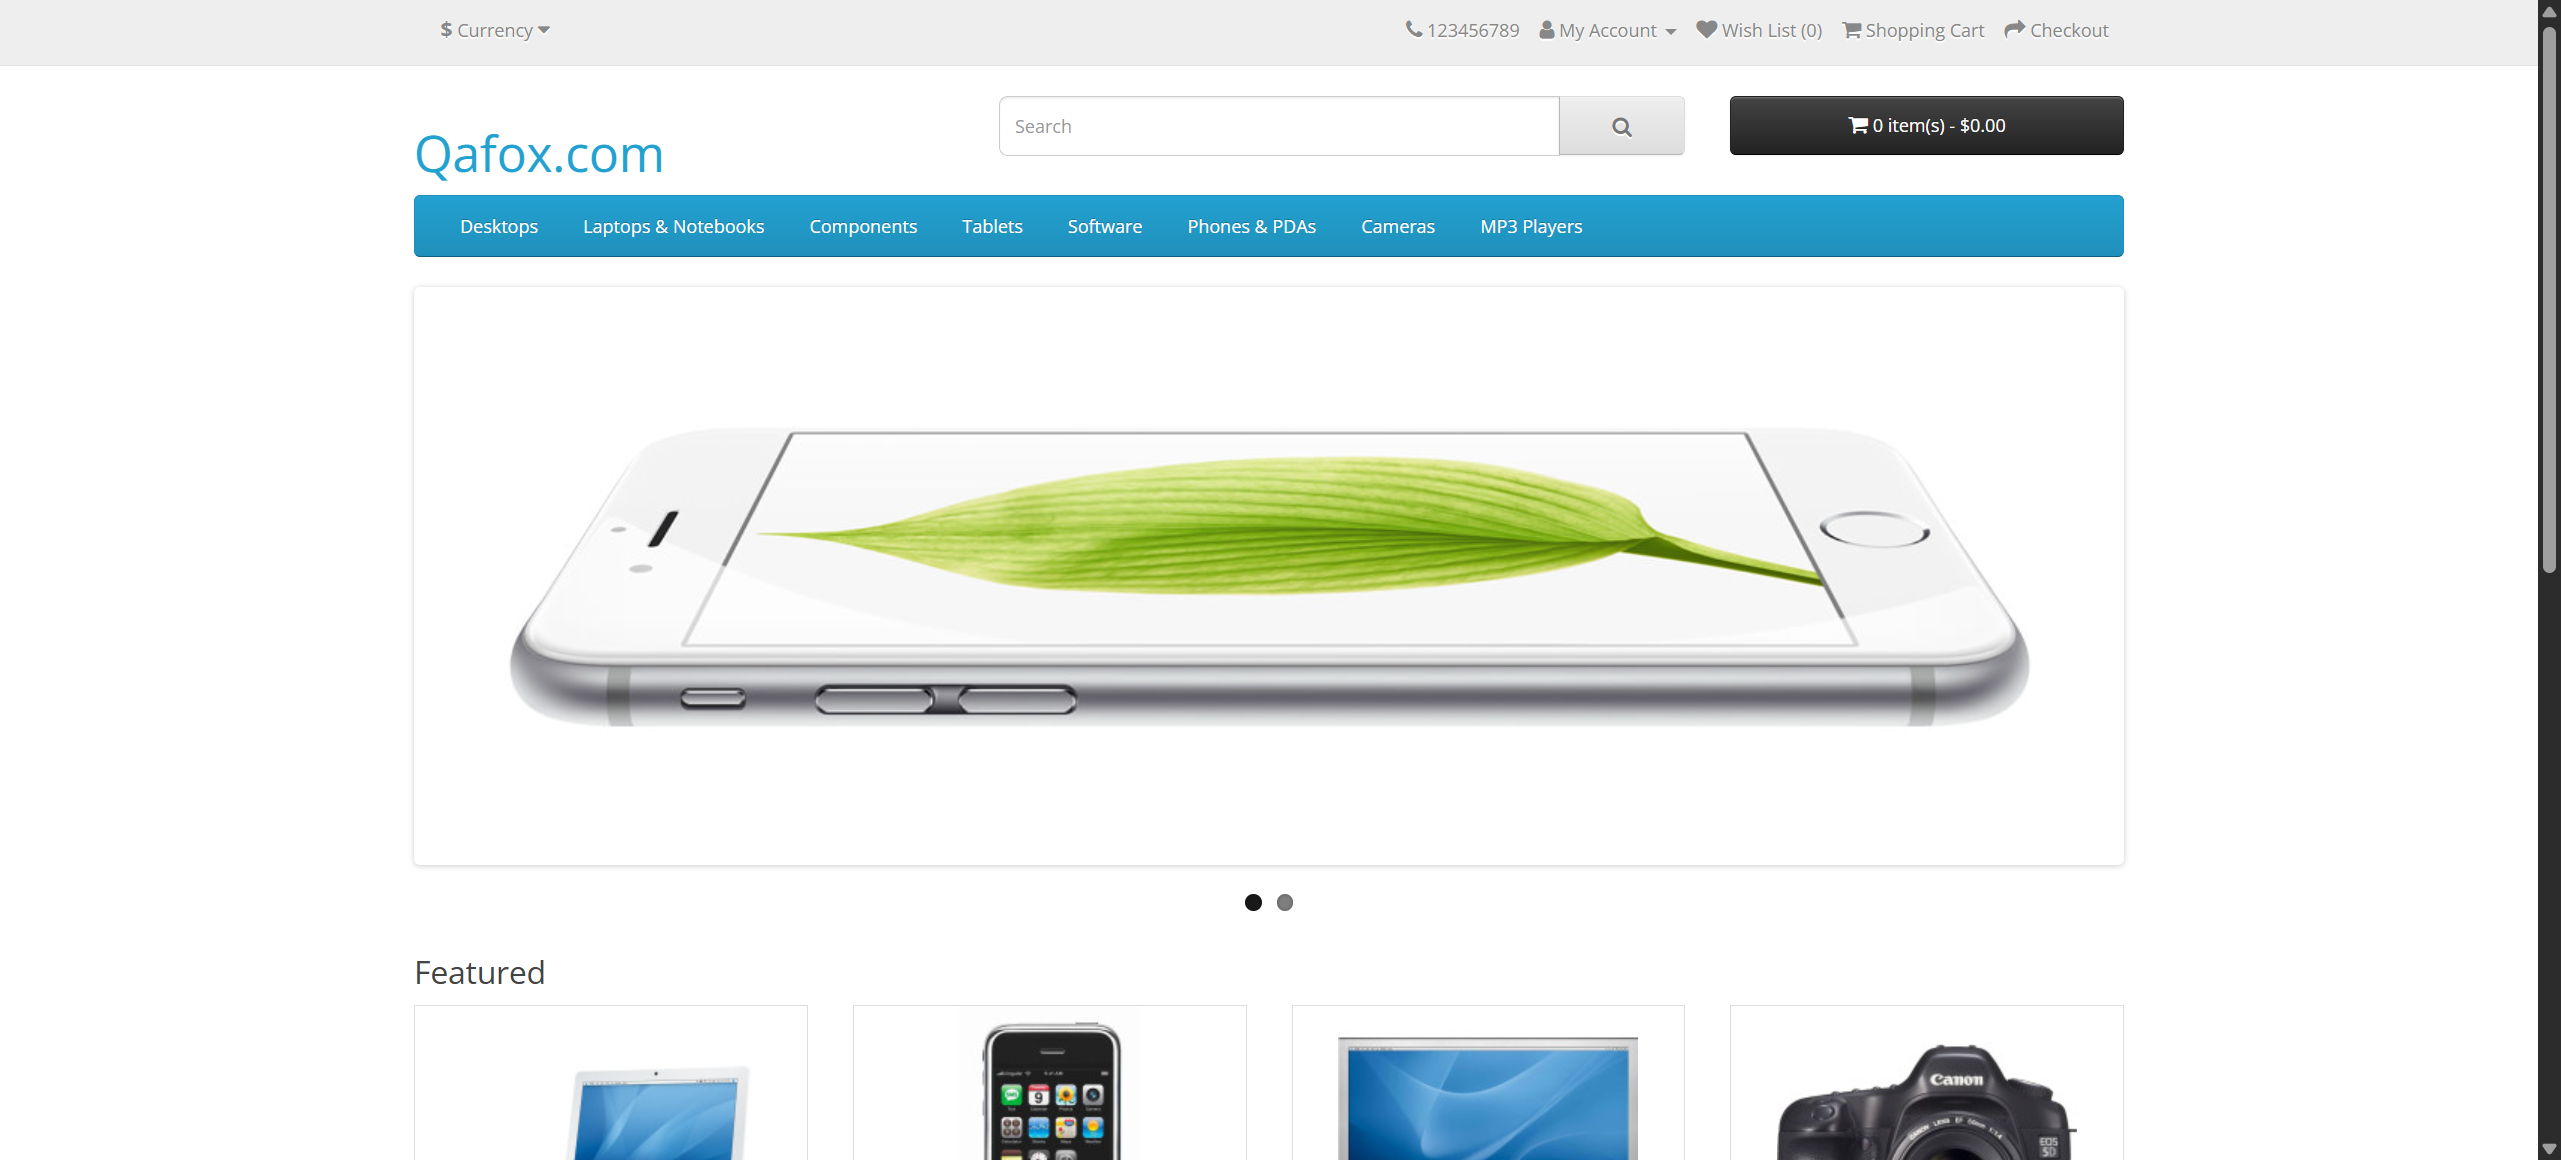
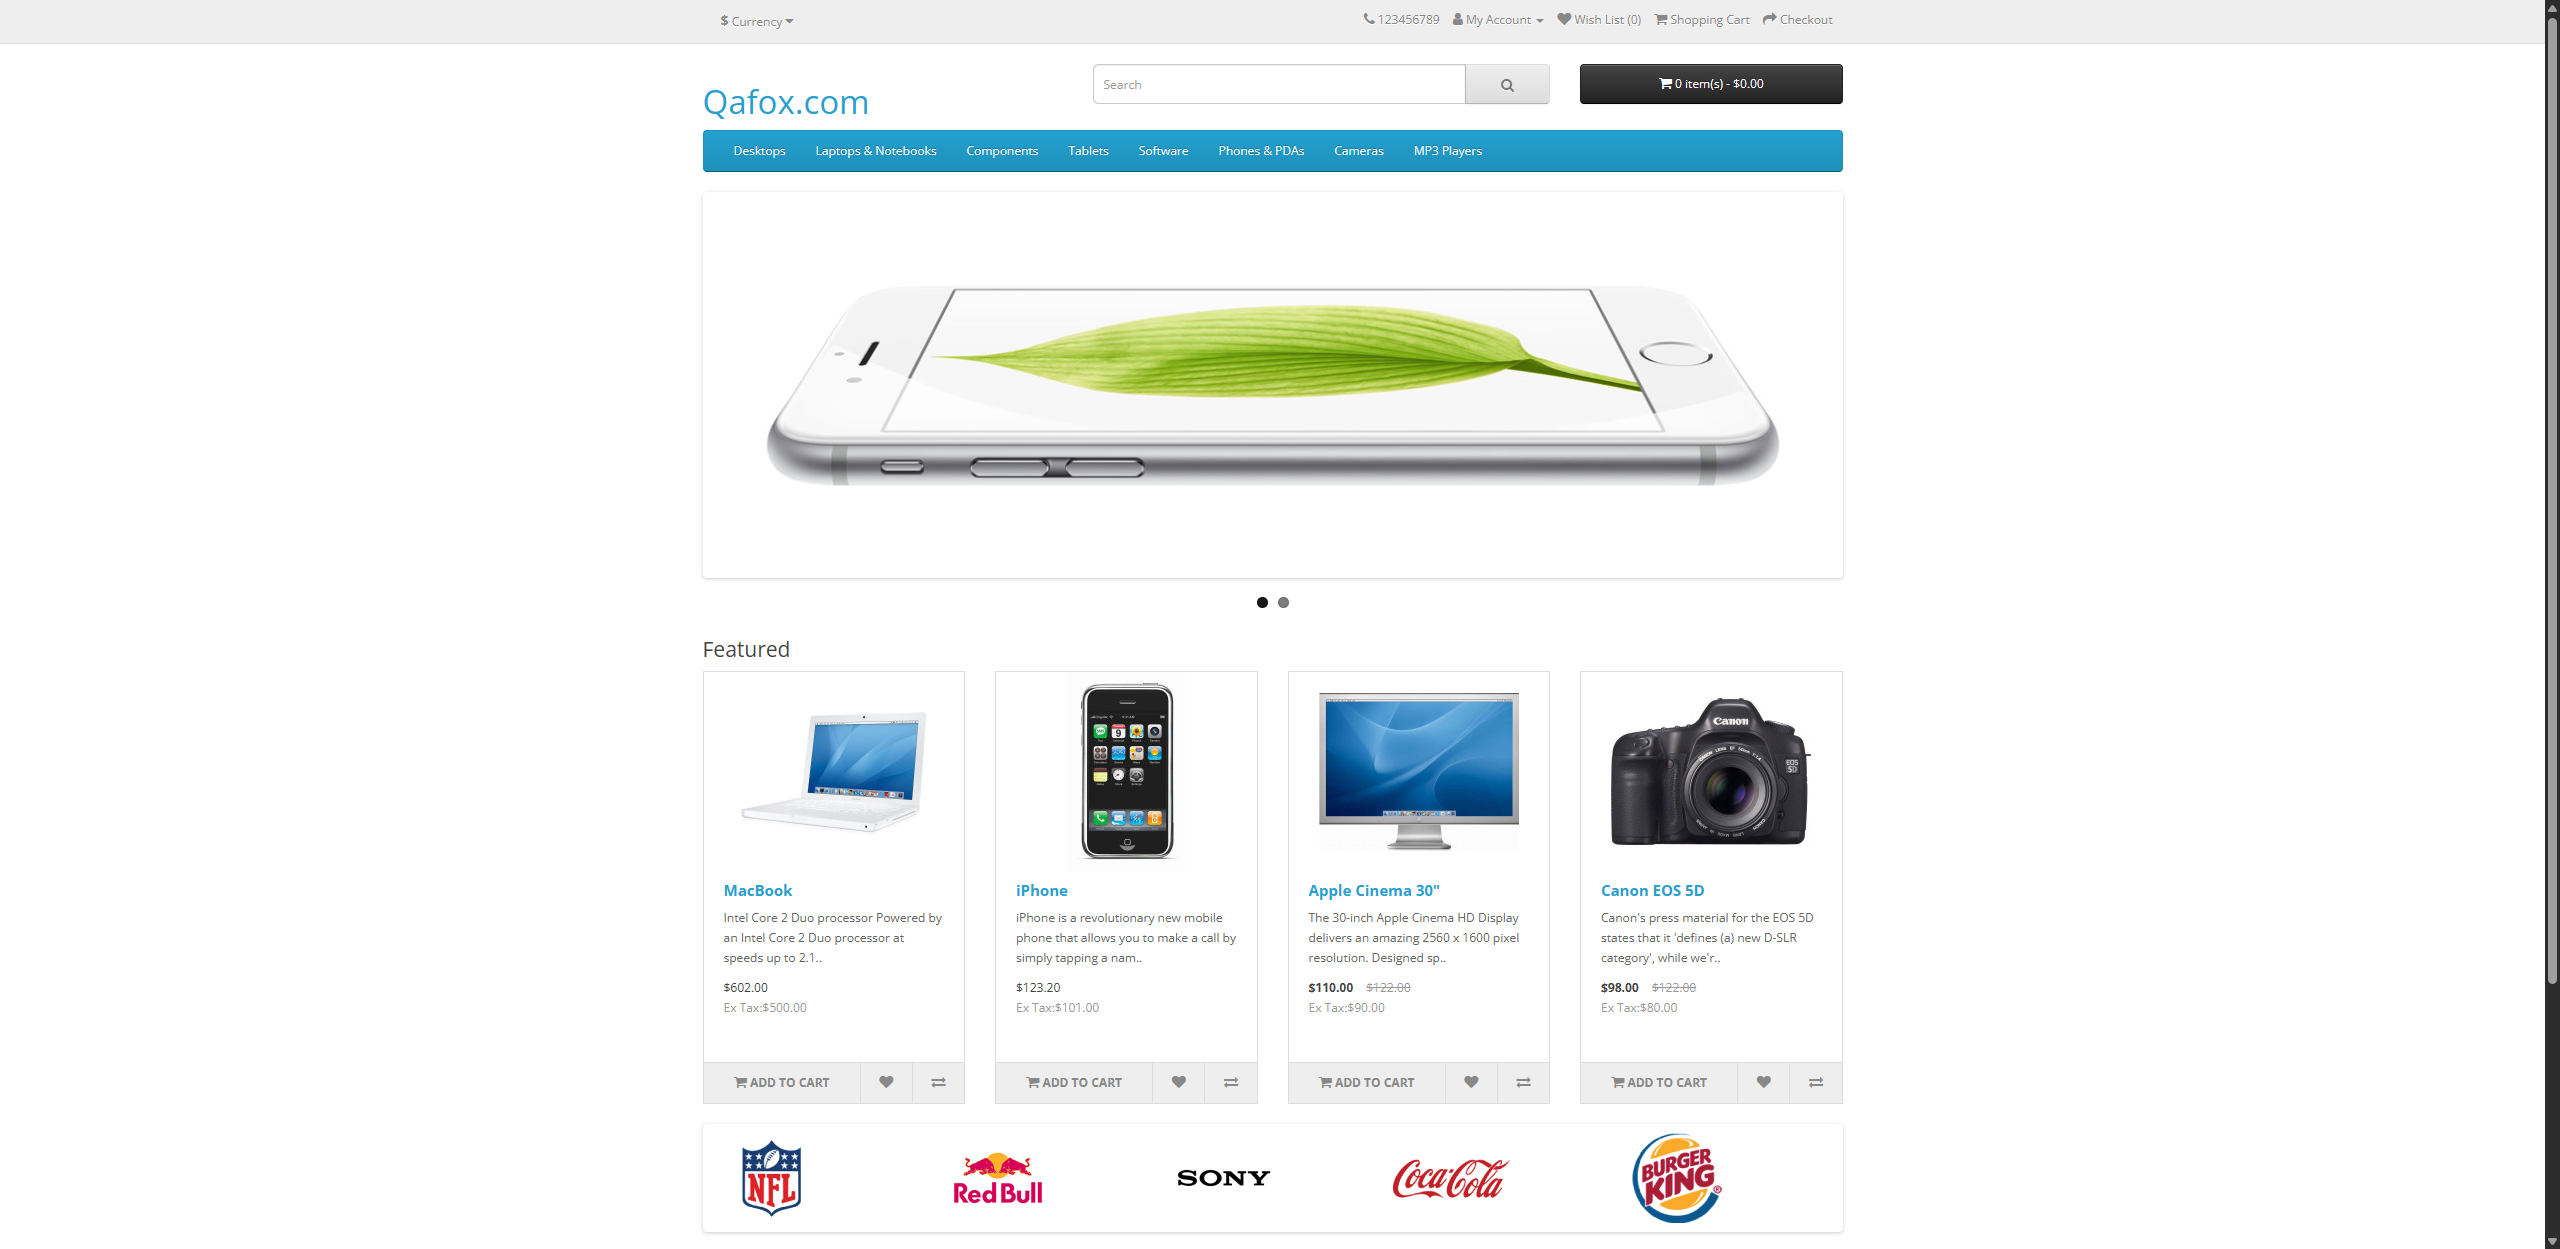
Fixed Maven Cucumber runner execution

diff --git a/TutorialsNinja_Project/src/test/java/runners/JUnitRunnerTest.java b/TutorialsNinja_Project/src/test/java/runners/JUnitRunnerTest.java
@@ -21,6 +21,6 @@ import io.cucumber.junit.CucumberOptions;
         monochrome = true
 )
 
-public class JUnitRunner {
+public class JUnitRunnerTest {
 
 }
